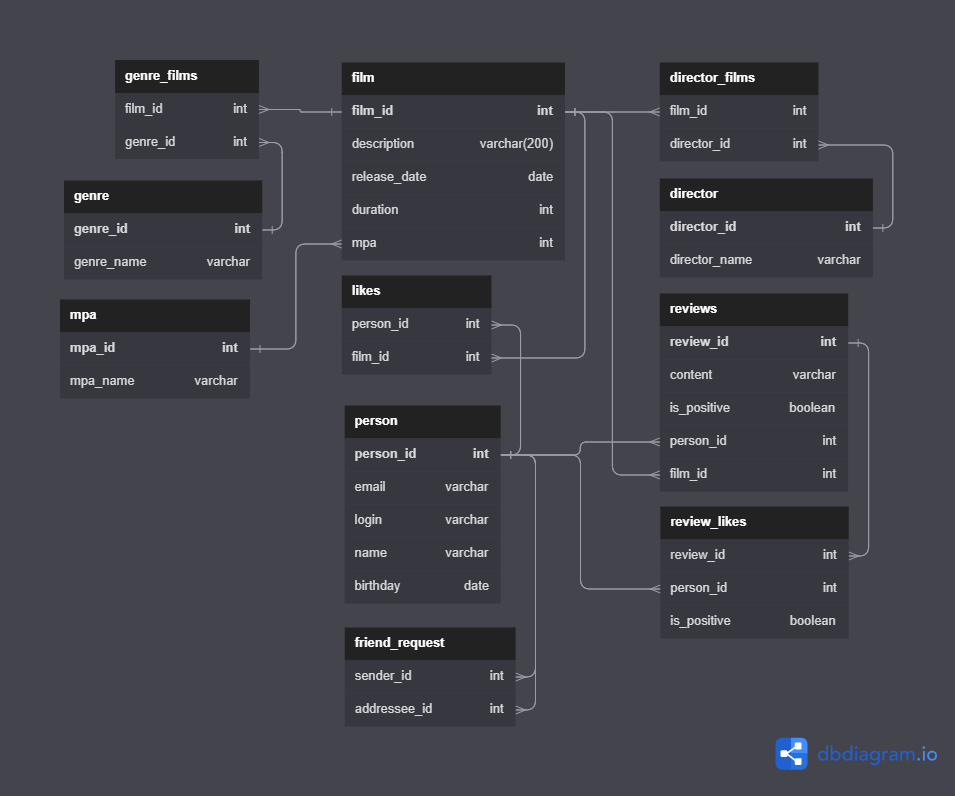
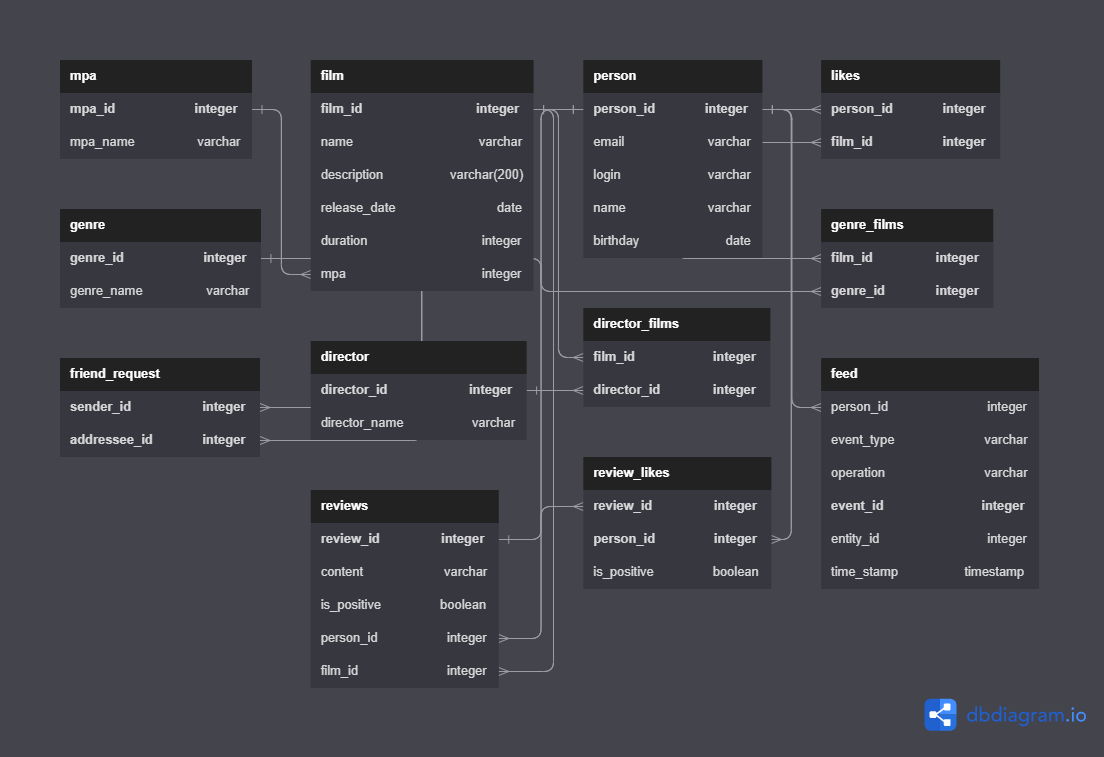
fix: исправлены замечания

diff --git a/src/main/java/ru/yandex/practicum/filmorate/storage/user/UserDbStorage.java b/src/main/java/ru/yandex/practicum/filmorate/storage/user/UserDbStorage.java
@@ -14,9 +14,10 @@ import org.springframework.web.server.ResponseStatusException;
 import ru.yandex.practicum.filmorate.model.Feed;
 import ru.yandex.practicum.filmorate.model.User;
 
+import java.sql.Date;
 import java.sql.ResultSet;
 import java.sql.SQLException;
-import java.util.Date;
+import java.time.*;
 import java.util.List;
 
 @Repository("UserDbStorage")
@@ -24,7 +25,6 @@ import java.util.List;
 @RequiredArgsConstructor(onConstructor = @__(@Autowired))
 public class UserDbStorage implements UserStorage {
     private final JdbcTemplate jdbcTemplate;
-    private final Date date = new Date();
 
     @Override
     public User add(User user) {
@@ -66,7 +66,7 @@ public class UserDbStorage implements UserStorage {
 
     @Override
     public List<Feed> getUserFeed(Integer userId) {
-        String sqlQuery = "SELECT * FROM feed WHERE user_id = ?";
+        String sqlQuery = "SELECT * FROM feed WHERE person_id = ?";
         return jdbcTemplate.query(sqlQuery, this::makeFeed, userId);
     }
 
@@ -84,7 +84,6 @@ public class UserDbStorage implements UserStorage {
         }
         String sqlQuery = "INSERT INTO friend_request (sender_id, addressee_id) VALUES (?, ?)";
         try {
-            addToFeedAddFriend(userId, friendId);
             jdbcTemplate.update(sqlQuery, userId, friendId);
             addToFeedAddFriend(userId, friendId);
         } catch (DuplicateKeyException e) {
@@ -116,19 +115,18 @@ public class UserDbStorage implements UserStorage {
             throw new ResponseStatusException(HttpStatus.NOT_FOUND,
                     "Лайка от пользователя с id=" + userId + " у фильма с id=" + friendId + " нет");
         }
-        addToFeedDeleteFriend(userId, friendId);
     }
 
     private void addToFeedDeleteFriend(Integer userId, Integer friendId) {
-        String sql = "INSERT INTO feed (user_id, event_type, operation, entity_id, time_stamp) " +
+        String sql = "INSERT INTO feed (person_id, event_type, operation, entity_id, time_stamp) " +
                 "VALUES (?, 'FRIEND', 'REMOVE', ?, ?)";
-        jdbcTemplate.update(sql, userId, friendId, date.getTime());
+        jdbcTemplate.update(sql, userId, friendId, Date.from(Instant.now()));
     }
 
     private void addToFeedAddFriend(Integer userId, Integer friendId) {
-        String sql = "INSERT INTO feed (user_id, event_type, operation, entity_id, time_stamp)" +
+        String sql = "INSERT INTO feed (person_id, event_type, operation, entity_id, time_stamp)" +
                 " VALUES (?, 'FRIEND', 'ADD', ?, ?)";
-        jdbcTemplate.update(sql, userId, friendId, date.getTime());
+        jdbcTemplate.update(sql, userId, friendId, Date.from(Instant.now()));
     }
 
     @Override
@@ -205,12 +203,12 @@ public class UserDbStorage implements UserStorage {
 
     private Feed makeFeed(ResultSet rs, int rowNum) throws SQLException {
         return Feed.builder()
-                .userId(rs.getInt("user_id"))
+                .userId(rs.getInt("person_id"))
                 .eventType(rs.getString("event_type"))
                 .operation(rs.getString("operation"))
                 .eventId(rs.getInt("event_id"))
                 .entityId(rs.getInt("entity_id"))
-                .timestamp(rs.getLong("time_stamp"))
+                .timestamp(rs.getDate("time_stamp"))
                 .build();
     }
 

diff --git a/src/main/java/ru/yandex/practicum/filmorate/storage/review/ReviewDbStorage.java b/src/main/java/ru/yandex/practicum/filmorate/storage/review/ReviewDbStorage.java
@@ -11,6 +11,8 @@ import ru.yandex.practicum.filmorate.model.*;
 
 import java.sql.ResultSet;
 import java.sql.SQLException;
+import java.time.Instant;
+import java.time.LocalDateTime;
 import java.util.*;
 
 @Repository
@@ -18,6 +20,8 @@ import java.util.*;
 public class ReviewDbStorage implements ReviewStorage {
 
     private final JdbcTemplate jdbcTemplate;
+
+    private final Date date = new Date();
 
     @Override
     public Review addReview(Review review) {
@@ -34,7 +38,7 @@ public class ReviewDbStorage implements ReviewStorage {
                 .usingGeneratedKeyColumns("review_id");
         int reviewId = simpleJdbcInsert.executeAndReturnKey(review.toMap()).intValue();
         review.setReviewId(reviewId);
-        addToFeedReviewCreate(reviewId, review.getUserId());
+        addToFeedReviewCreate(review.getReviewId(), review.getUserId());
         return review;
     }
 
@@ -49,32 +53,27 @@ public class ReviewDbStorage implements ReviewStorage {
         jdbcTemplate.update(sql, review.getContent(), review.getIsPositive(), review.getReviewId());
         Review review1 = getReviewById(review.getReviewId());
         addToFeedReviewUpdate(review1.getReviewId());
-        addToFeedReviewUpdate(review.getReviewId());
         return getReviewById(review.getReviewId());
     }
 
     private void addToFeedReviewUpdate(Integer reviewId) {
-        String sqlQuery = "INSERT INTO feed (user_id, event_type, operation,entity_id,time_stamp) " +
+        String sqlQuery = "INSERT INTO feed (person_id, event_type, operation,entity_id,time_stamp) " +
                 "VALUES (?, 'REVIEW', 'UPDATE', ?,?)";
-
-        Date date = new Date();
         jdbcTemplate.update(sqlQuery, getReviewById(reviewId).getUserId(),
-                reviewId, date.getTime());
+                reviewId, Date.from(Instant.now()));
     }
 
     private void addToFeedReviewCreate(Integer reviewId, Integer userId) {
-        String sql = "INSERT INTO feed (user_id, event_type, operation,entity_id,time_stamp) " +
+        String sql = "INSERT INTO feed (person_id, event_type, operation,entity_id,time_stamp) " +
                 "VALUES (?, 'REVIEW', 'ADD', ?,?)";
-        Date date = new Date();
-        jdbcTemplate.update(sql, userId, reviewId, date.getTime());
+        jdbcTemplate.update(sql, userId, reviewId, Date.from(Instant.now()));
     }
 
     private void addToFeedReviewDelete(Integer reviewId) {
-        String sqlQuery = "INSERT INTO feed (user_id, event_type, operation,entity_id,time_stamp)" +
+        String sqlQuery = "INSERT INTO feed (person_id, event_type, operation,entity_id,time_stamp)" +
                 " VALUES (?, 'REVIEW', 'REMOVE', ?,?)";
-        Date date = new Date();
         jdbcTemplate.update(sqlQuery, getReviewById(reviewId).getUserId(),
-                reviewId, date.getTime());
+                reviewId, Date.from(Instant.now()));
     }
 
     @Override

diff --git a/src/main/java/ru/yandex/practicum/filmorate/storage/film/FilmDbStorage.java b/src/main/java/ru/yandex/practicum/filmorate/storage/film/FilmDbStorage.java
@@ -13,14 +13,14 @@ import ru.yandex.practicum.filmorate.model.*;
 
 import java.sql.ResultSet;
 import java.sql.SQLException;
+import java.time.Instant;
+import java.time.LocalDateTime;
 import java.util.*;
 
 @Repository("FilmDbStorage")
 @Slf4j
 public class FilmDbStorage implements FilmStorage {
     private final JdbcTemplate jdbcTemplate;
-
-    private final Date date = new Date();
 
     @Autowired
     public FilmDbStorage(JdbcTemplate jdbcTemplate) {
@@ -88,7 +88,6 @@ public class FilmDbStorage implements FilmStorage {
             film.getDirectors().forEach(director -> jdbcTemplate.update(sqlQuery3, film.getId(), director.getId()));
         }
         return getFilm(film.getId());
-
     }
 
     @Override
@@ -129,6 +128,7 @@ public class FilmDbStorage implements FilmStorage {
                 "ORDER BY COUNT(l.person_id) DESC";
         return jdbcTemplate.query(sqlQuery, this::makeFilm, userId, friendId);
     }
+
 
     @Override
     public List<Film> getTopFilms(Integer count, Integer genreId, Integer year) {
@@ -213,6 +213,7 @@ public class FilmDbStorage implements FilmStorage {
         }
     }
 
+
     @Override
     public void addLike(Integer userId, Integer filmId) throws ResponseStatusException {
         if (!dbContainsUser(userId)) {
@@ -229,7 +230,6 @@ public class FilmDbStorage implements FilmStorage {
         try {
             addToFeedAddLike(userId, filmId);
             jdbcTemplate.update(sqlQuery, userId, filmId);
-            addToFeedAddLike(userId, filmId);
         } catch (DuplicateKeyException e) {
             String message = "Ошибка запроса добавления лайка фильму." +
                     " Попытка полькователем поставить лайк дважды одному фильму.";
@@ -408,14 +408,14 @@ public class FilmDbStorage implements FilmStorage {
     }
 
     private void addToFeedDeleteLike(Integer userId, Integer filmId) {
-        String sql = "INSERT INTO feed (user_id, event_type, operation,entity_id,time_stamp)" +
+        String sql = "INSERT INTO feed (person_id, event_type, operation,entity_id,time_stamp)" +
                 " VALUES (?, 'LIKE', 'REMOVE', ?, ?)";
-        jdbcTemplate.update(sql, userId, filmId, date.getTime());
+        jdbcTemplate.update(sql, userId, filmId, Date.from(Instant.now()));
     }
 
     private void addToFeedAddLike(Integer userId, Integer filmId) {
-        String sql = "INSERT INTO feed (user_id, event_type, operation,entity_id,time_stamp)" +
+        String sql = "INSERT INTO feed (person_id, event_type, operation,entity_id,time_stamp)" +
                 " VALUES (?, 'LIKE', 'ADD', ?, ?)";
-        jdbcTemplate.update(sql, userId, filmId, date.getTime());
+        jdbcTemplate.update(sql, userId, filmId, Date.from(Instant.now()));
     }
 }

diff --git a/src/main/java/ru/yandex/practicum/filmorate/model/Feed.java b/src/main/java/ru/yandex/practicum/filmorate/model/Feed.java
@@ -1,10 +1,13 @@
 package ru.yandex.practicum.filmorate.model;
 
+import com.fasterxml.jackson.annotation.JsonFormat;
+import com.fasterxml.jackson.annotation.JsonIgnore;
 import lombok.AllArgsConstructor;
 import lombok.Builder;
 import lombok.Data;
 
 import javax.validation.constraints.NotNull;
+import java.util.Date;
 
 
 @Data
@@ -24,5 +27,7 @@ public class Feed {
     @NotNull
     private int entityId;
 
-    private long timestamp;
+    @JsonFormat(shape = JsonFormat.Shape.NUMBER)
+    private Date timestamp;
+
 }

diff --git a/src/main/java/ru/yandex/practicum/filmorate/service/UserService.java b/src/main/java/ru/yandex/practicum/filmorate/service/UserService.java
@@ -49,7 +49,7 @@ public class UserService {
     }
 
     public List<Feed> getUserFeed(Integer userId) {
-        log.info("Новостная лента пользователя: {} {}", users.getUser(userId).getName(), users.getUserFeed(userId).size());
+        log.info("Новостная лента пользователя: {} {}", users.getUser(userId).getName(), users.getUserFeed(userId));
         return users.getUserFeed(userId);
     }
 
